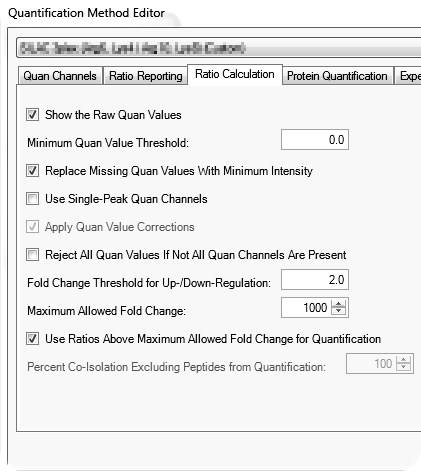
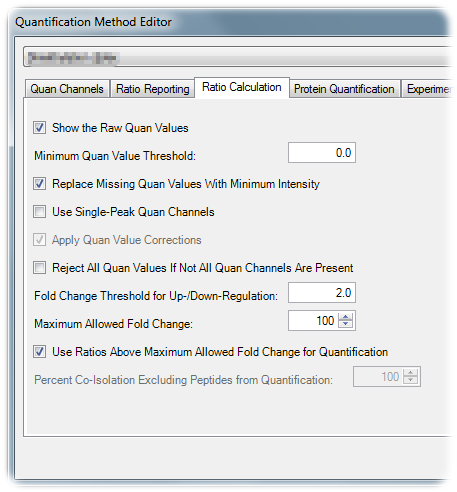
Improved images contained in tooltip

Changed region(s): [[0.0, 0.0, 1.0, 1.0]]

diff --git a/index.html b/index.html
@@ -31,7 +31,7 @@
 				<p>
 				<dl style="font-family: 'Courier New'; font-size: 90%; padding-left: 5%;">
 					<dt>Input file support:</dt>
-					<dd>&#8212 <a href="http://www.google.com/search?q=Thermo%20Proteome%20Discoverer&btnI" target="_blank">Proteome Discoverer&#8482</a> (PD) v1.4+ PSM file.<span class="tooltip" style="position: relative">?<div style="left: -25em; min-width: 50em;"><img class="callout" src="images/callout_black.gif" style="margin-left: 24.3em"/>The peptide spectrum match (PSM) file, comprising the necessary information required for protein quantitation, has to be produced manually through the PD desktop application (see the File->Export menu).<p>The PSM file must be created from within a PD report which combines the information from all MS analyses (i.e. replicates, conditions etc). Such a PD report is sometimes required to be created based on separate reports and is referred to as a multi-consensus report.</p><p>Before exporting the information, one <strong>must</strong> first disable peptide grouping and second edit the report's <em>Quantification&nbsp;Method</em> by configuring the <em>Ratio&nbsp;Calculation</em> parameters. The screen shots below show where the aforementioned changes can be made from within the PD application.</p><figure style="float: left; width: 49%; margin: 0 auto;"><img src="images/pdquantmeth.png" style="width: 100%;"/><figcaption style="text-align: center;">Disabling peptide grouping.</figcaption></figure><figure style="float: right; width: 49%; margin: 0 auto;"><img src="images/pdquantmeth.png" style="width: 100%;"/><figcaption style="text-align: center;">Editing ratio calculation parameters.</figcaption></figure></div></span></dd>
+					<dd>&#8212 <a href="http://www.google.com/search?q=Thermo%20Proteome%20Discoverer&btnI" target="_blank">Proteome Discoverer&#8482</a> (PD) v1.4+ PSM file.<span class="tooltip" style="position: relative">?<div style="left: -25em; min-width: 50em;"><img class="callout" src="images/callout_black.gif" style="margin-left: 24.3em"/>The peptide spectrum match (PSM) file, comprising the necessary information required for protein quantitation, has to be produced manually through the PD desktop application (see the File->Export menu).<p>The PSM file must be created from within a PD report which combines the information from all MS analyses (i.e. replicates, conditions etc). Such a PD report is sometimes required to be created based on separate reports and is referred to as a multi-consensus report.</p><p>Before exporting the information, one <strong>must</strong> first disable peptide grouping and second edit the report's <em>Quantification&nbsp;Method</em> by configuring the <em>Ratio&nbsp;Calculation</em> parameters. The screen shots below show where the aforementioned changes can be made from within the PD application.</p><figure style="float: left; width: 49%; margin: 0 auto;"><img src="images/pdpepgroup.png" style="width: 100%;"/><figcaption style="text-align: center;">Disabling peptide grouping.</figcaption></figure><figure style="float: right; width: 49%; margin: 0 auto;"><img src="images/pdquantmeth.png" style="width: 100%;"/><figcaption style="text-align: center;">Editing ratio calculation parameters.</figcaption></figure></div></span></dd>
 					<dd>&#8212 <a href="http://www.google.com/search?q=Max%Planck%MaxQuant&btnI" target="_blank">MaxQuant</a> (MQ) v1.3.0.5+ 'proteinGroups' and 'evidence' files.</dd>
 					<dt><br>Experiment support:</dt>
 					<dd>&#8212 Data processed with PD: Label-free, <a href="http://www.ncbi.nlm.nih.gov/pubmed/?term=15385600" target="_blank">iTRAQ</a>, <a href="http://www.ncbi.nlm.nih.gov/pubmed/?term=12713048" target="_blank">TMT</a>, <a href="http://www.ncbi.nlm.nih.gov/pubmed/?term=12118079" target="_blank">SILAC</a>, <a href="http://www.ncbi.nlm.nih.gov/pubmed/?term=19053139" target="_blank">pulsed SILAC</a>, <a href="http://www.ncbi.nlm.nih.gov/pubmed/?term=19300442" target="_blank">dimethyl</a>.</dd>
